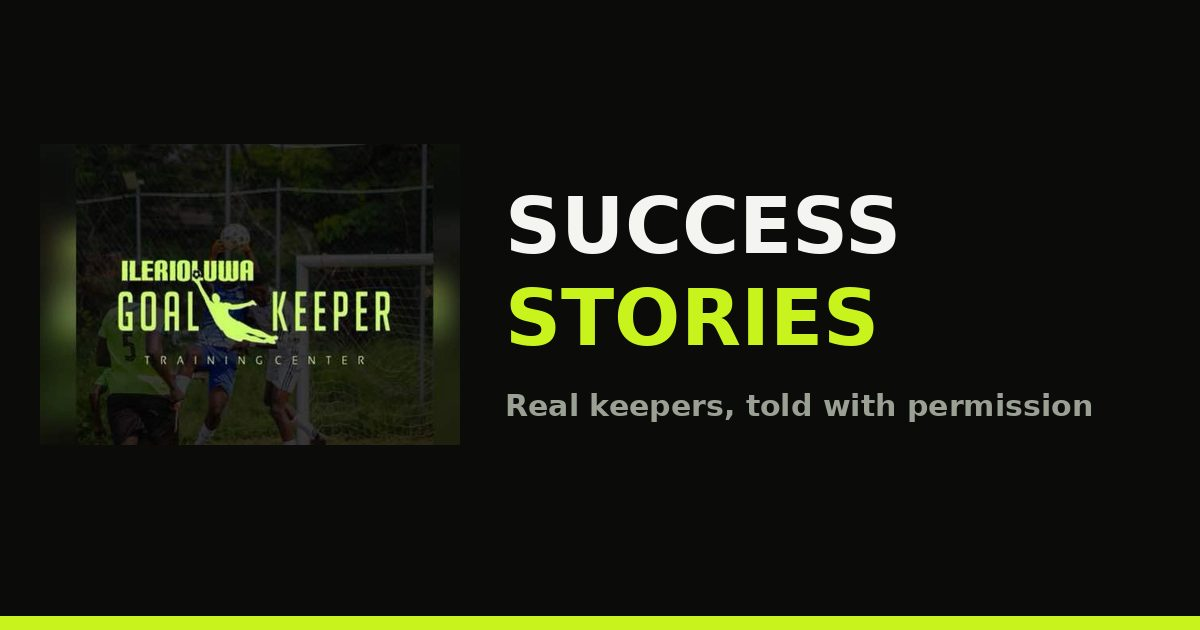
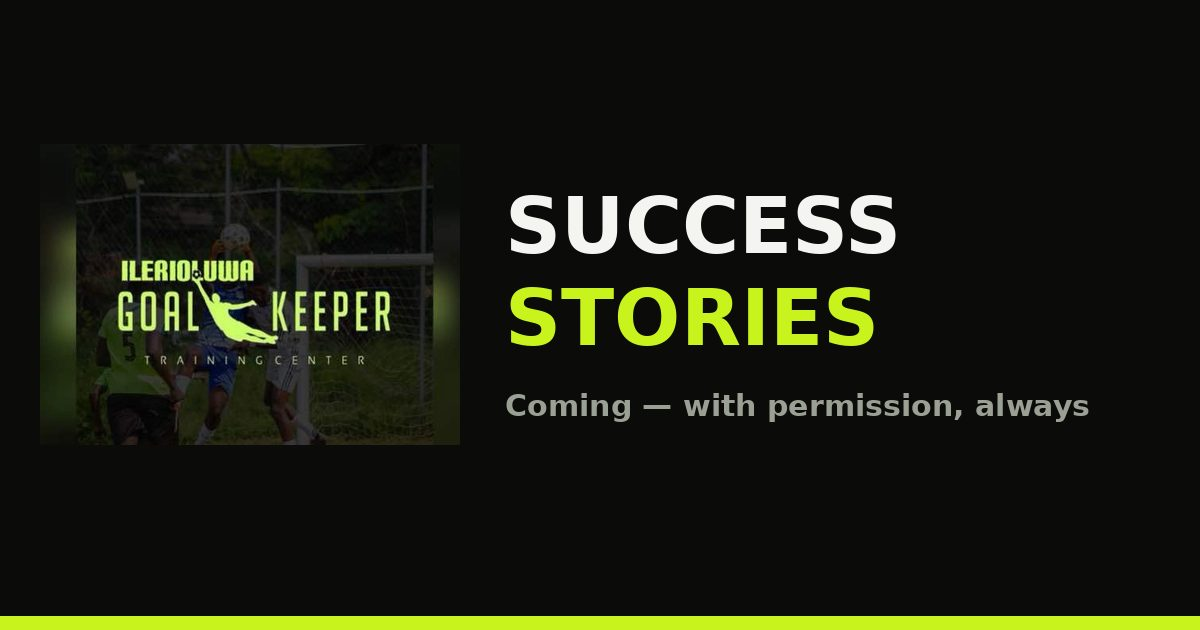
Red-team fixes r2: F1 config.js spares number-less share links, F2 loan-pairs claim fully removed, F3 404 skip-link cut (base-href trap), F4 flyer id=main, F5 trial-form mailto fallback, F7 honest stories OG card, F8 goal width, F9 age buckets, F10 valid ListItem/HowTo JSON-LD, F6 check.sh fragment 

Changed region(s): [[0.4008, 0.6032, 0.925, 0.6635]]

diff --git a/drills.html b/drills.html
@@ -24,12 +24,90 @@
   "@type": "ItemList",
   "name": "Solo goalkeeper drills you can do at home",
   "itemListElement": [
-    {"@type":"HowTo","position":1,"name":"Wall catches — the W","step":[{"@type":"HowToStep","text":"Stand 3–4 steps from a wall, throw chest-high, catch with both hands in a W shape. 3 sets of 20."}]},
-    {"@type":"HowTo","position":2,"name":"Scoop cradles","step":[{"@type":"HowToStep","text":"Roll the ball at the wall, get the body behind the return, scoop into the chest. 3 sets of 15."}]},
-    {"@type":"HowTo","position":3,"name":"Shuffle box","step":[{"@type":"HowToStep","text":"Side-shuffle around a 2x2-step square without crossing the feet. 4 rounds of 30 seconds each way."}]},
-    {"@type":"HowTo","position":4,"name":"Set-position pops","step":[{"@type":"HowToStep","text":"Jog on the spot; on the call, snap into the set position and hold 2 seconds. 20 repetitions."}]},
-    {"@type":"HowTo","position":5,"name":"Turn-and-find","step":[{"@type":"HowToStep","text":"Face away, throw the ball over the shoulder at the wall, turn fast, catch or save. 3 sets of 10."}]},
-    {"@type":"HowTo","position":6,"name":"One-hand juggles","step":[{"@type":"HowToStep","text":"Throw up and catch one-handed; right only, left only, alternating. 2 minutes per hand."}]}
+    {
+      "@type": "ListItem",
+      "position": 1,
+      "item": {
+        "@type": "HowTo",
+        "name": "Wall catches — the W",
+        "step": [
+          {
+            "@type": "HowToStep",
+            "text": "Stand 3–4 steps from a wall, throw chest-high, catch with both hands in a W shape. 3 sets of 20."
+          }
+        ]
+      }
+    },
+    {
+      "@type": "ListItem",
+      "position": 2,
+      "item": {
+        "@type": "HowTo",
+        "name": "Scoop cradles",
+        "step": [
+          {
+            "@type": "HowToStep",
+            "text": "Roll the ball at the wall, get the body behind the return, scoop into the chest. 3 sets of 15."
+          }
+        ]
+      }
+    },
+    {
+      "@type": "ListItem",
+      "position": 3,
+      "item": {
+        "@type": "HowTo",
+        "name": "Shuffle box",
+        "step": [
+          {
+            "@type": "HowToStep",
+            "text": "Side-shuffle around a 2x2-step square without crossing the feet. 4 rounds of 30 seconds each way."
+          }
+        ]
+      }
+    },
+    {
+      "@type": "ListItem",
+      "position": 4,
+      "item": {
+        "@type": "HowTo",
+        "name": "Set-position pops",
+        "step": [
+          {
+            "@type": "HowToStep",
+            "text": "Jog on the spot; on the call, snap into the set position and hold 2 seconds. 20 repetitions."
+          }
+        ]
+      }
+    },
+    {
+      "@type": "ListItem",
+      "position": 5,
+      "item": {
+        "@type": "HowTo",
+        "name": "Turn-and-find",
+        "step": [
+          {
+            "@type": "HowToStep",
+            "text": "Face away, throw the ball over the shoulder at the wall, turn fast, catch or save. 3 sets of 10."
+          }
+        ]
+      }
+    },
+    {
+      "@type": "ListItem",
+      "position": 6,
+      "item": {
+        "@type": "HowTo",
+        "name": "One-hand juggles",
+        "step": [
+          {
+            "@type": "HowToStep",
+            "text": "Throw up and catch one-handed; right only, left only, alternating. 2 minutes per hand."
+          }
+        ]
+      }
+    }
   ]
 }
 </script>

diff --git a/trials.html b/trials.html
@@ -84,11 +84,11 @@
     <h2>Book the free trial now</h2>
     <p>Fill this in and it opens WhatsApp with your booking message ready to send —
     nothing is stored on the website.</p>
-    <form class="card" id="trial-form">
+    <form class="card" id="trial-form" action="mailto:akindekotobi3@gmail.com" method="get" enctype="text/plain">
       <p><label>Keeper's first name<br><input name="keeper" required style="width:100%;padding:.55rem;border:1px solid var(--line);border-radius:6px"></label></p>
       <p><label>Age group<br>
         <select name="age" style="width:100%;padding:.55rem;border:1px solid var(--line);border-radius:6px">
-          <option>U15–U17</option><option>18+</option>
+          <option>Ages 15–17 (U15–U17)</option><option>18 and above</option>
         </select></label></p>
       <p><label>When is best to contact you?<br><input name="when" placeholder="e.g. evenings, weekends" style="width:100%;padding:.55rem;border:1px solid var(--line);border-radius:6px"></label></p>
       <button class="btn btn-gold" type="submit">🧤 Book my FREE session on WhatsApp</button>
@@ -131,7 +131,7 @@
       <div class="card">
         <h3>Good to have</h3>
         <ul>
-          <li>Goalkeeper gloves (loan pairs available)</li>
+          <li>Goalkeeper gloves — message us before you come if you don’t have a pair</li>
           <li>Long-sleeved training top</li>
           <li>Any medical information we should know</li>
         </ul>

diff --git a/contact.html b/contact.html
@@ -91,7 +91,7 @@
       <p><label>Your name<br><input name="name" required style="width:100%;padding:.55rem;border:1px solid var(--line);border-radius:6px"></label></p>
       <p><label>Keeper's age group<br>
         <select name="age" style="width:100%;padding:.55rem;border:1px solid var(--line);border-radius:6px">
-          <option>U15–U17</option><option>18+</option>
+          <option>Ages 15–17 (U15–U17)</option><option>18 and above</option>
         </select></label></p>
       <p><label>Message<br><textarea name="body" rows="4" required style="width:100%;padding:.55rem;border:1px solid var(--line);border-radius:6px"></textarea></label></p>
       <button class="btn btn-green" type="submit">💬 Send on WhatsApp</button>

diff --git a/sw.js b/sw.js
@@ -4,9 +4,9 @@
 // PUBLISH CHECKLIST: when bumping any ?v=, update PRECACHE to match; when editing an
 // UNVERSIONED asset (config.js, logo, favicon, manifest), bump the CACHE name too —
 // PWA visitors otherwise keep the old copy forever.
-var CACHE = 'igtc-v2';
+var CACHE = 'igtc-v3';
 var PRECACHE = [
-  './index.html', './programs.html', './trials.html', './coaches.html',
+  './', './index.html', './programs.html', './trials.html', './coaches.html',
   './stories.html', './schedule.html', './gallery.html', './faq.html',
   './contact.html', './drills.html', './safeguarding.html', './404.html',
   './glossary.html', './news.html', './offline.html',

diff --git a/news.html b/news.html
@@ -81,7 +81,7 @@
       <p>Think about what a keeper actually needs to master: the set position before
       every shot. Catching shapes — the W high, the scoop low. Dive mechanics that
       protect the body on hard ground. The geometry of angle play, making a goal
-      seven metres wide look small. The courage and timing of the 1v1. The loud,
+      over seven metres wide look small. The courage and timing of the 1v1. The loud,
       early voice that organizes a defense. Distribution that starts attacks instead
       of giving the ball back. None of that develops by standing in goal during
       someone else's shooting drill.</p>

diff --git a/flyer.html b/flyer.html
@@ -56,7 +56,7 @@
   <p class="small" style="color:var(--muted)">Print on A5 (or A4 with two per page). Hand out at the pitch, schools, and shops.</p>
 </div>
 
-<div class="flyer">
+<div class="flyer" id="main">
   <img class="lockup" src="assets/img/logo-lockup.jpg" alt="Ilerioluwa Goalkeeper Training Center — Guardian of Goal">
   <h1>Goalkeepers aren't born.<br><span class="volt">They're trained.</span></h1>
   <p>Specialist goalkeeper-only coaching · Ibadan</p>

diff --git a/assets/js/config.js b/assets/js/config.js
@@ -22,6 +22,7 @@ window.SITE = {
 
   // Rewrite every wa.me link to the configured number, keeping ?text= prefills.
   document.querySelectorAll('a[href*="wa.me"]').forEach(function (a) {
+    if (!/wa\.me\/\d/.test(a.href)) return; // number-less share links (e.g. invite-a-friend) stay as-is
     var q = a.href.split('?')[1];
     a.href = 'https://wa.me/' + S.waNumber + (q ? '?' + q : '');
   });

diff --git a/404.html b/404.html
@@ -12,7 +12,6 @@
 <link rel="stylesheet" href="assets/css/style.css?v=5">
 </head>
 <body>
-<a class="skip-link" href="#main">Skip to content</a>
 
 <header class="site">
   <div class="nav-bar">
